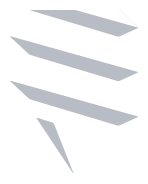
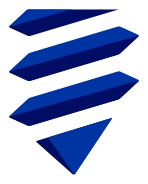
Updates to styles

diff --git a/themes/sd/css/base.css b/themes/sd/css/base.css
@@ -34,8 +34,6 @@ div.col-md-9 img {
     padding: 4px;
     line-height: 1.428571429;
     background-color: #fff;
-    border: 1px solid #ddd;
-    border-radius: 4px;
     margin: 20px auto 30px auto;
 }
 
@@ -107,9 +105,8 @@ samp {
 footer {
     height: 21px;
     padding: 5px 0;
-    background: url('/img/main_bkgrd_home.png') no-repeat transparent;
-    background-size: cover;
-    color: #fff;
+    background-color: #d8dade;
+    color: #878c91;
     font-weight: 300;
     font-size: 11px;
     line-height: 11px;
@@ -119,10 +116,11 @@ footer p {
     margin: 0;
 }
 footer a {
-    color: #fff;
+    color: #878c91;
 }
 footer a:hover {
-    color: #fff;
+    color: #878c91;
+    text-decoration: underline;
 }
 footer .container > div:last-child {
     text-align: right;
@@ -144,8 +142,8 @@ footer .container > div:last-child {
     background-size: contain;
     direction: ltr;
     text-indent: -9000px;
-    width: 156px;
     height: 40px;
+    width: 194px;
     display: inline-block;
 }
 .navbar-nav > li {
@@ -159,7 +157,7 @@ footer .container > div:last-child {
     .navbar-nav > li:hover {
         border-bottom: 4px solid #0078ff;
     }
-    .navbar-nav > .active {
+    .navbar-nav > li.active:hover, .navbar-nav > .active {
         border-bottom: 4px solid #003abc;
     }
 }
@@ -183,6 +181,9 @@ footer .container > div:last-child {
     padding: 0;
     max-height: 90%;
     overflow-y: auto;
+    background-color: transparent;
+    border-width: 0;
+    box-shadow: none;
 }
 
 
@@ -198,23 +199,29 @@ footer .container > div:last-child {
 /* All levels of nav */
 
 .bs-sidebar .nav>li>a {
+    color: #188fff;
     display: block;
     padding: 5px 20px;
     z-index: 1;
+    border-left: 4px solid transparent;
 }
 
 .bs-sidebar .nav>li>a:hover,
 .bs-sidebar .nav>li>a:focus {
     text-decoration: none;
-    border-right: 1px solid;
+    border-left: 4px solid #188fff;
+}
+.bs-sidebar .nav>li>a:hover, .bs-sidebar .nav>li>a:focus {
+    background-color: transparent;
 }
 
 .bs-sidebar .nav>.active>a,
 .bs-sidebar .nav>.active:hover>a,
 .bs-sidebar .nav>.active:focus>a {
+    color: #003abc;
     font-weight: 600;
     background-color: transparent;
-    border-right: 1px solid;
+    border-left: 4px solid #003abc;
 }
 
 

diff --git a/docs/css/homepage.css b/docs/css/homepage.css
@@ -11,11 +11,10 @@ body.homepage div.container img {
 
 .homepage .top {
     padding: 20px 0;
-    background: url('/img/main_bkgrd_home.png') no-repeat;
-    background-size: cover;
     text-align: center;
-    color: #fff;
+    color: #26282a;
     width: 100%;
+    border-bottom: 1px solid #f1f1f5;
 }
 
 .homepage .top p {
@@ -31,10 +30,11 @@ body.homepage div.container img {
 }
 
 .homepage .top h1 {
-    color: #fff;
-    font-size: 24px;
+    color: #003abc;
+    font-size: 26px;
     font-weight: 300px;
     margin: 0;
+    margin-top: 10px;
     padding: 0;
 }
 
@@ -49,10 +49,11 @@ body.homepage div.container img {
 .homepage .row {
     padding: 20px 0;
     margin: 0;
+    border-bottom: 1px solid #f1f1f5;
 }
 
-.homepage .row:nth-child(odd) {
-    background-color: #f1f1f5;
+.homepage .row:last-child {
+    border-width: 0px;
 }
 
 .homepage .row p {
